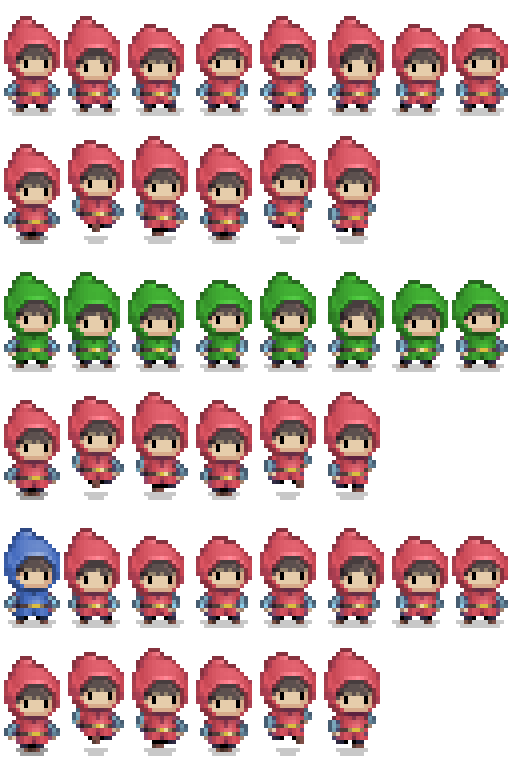
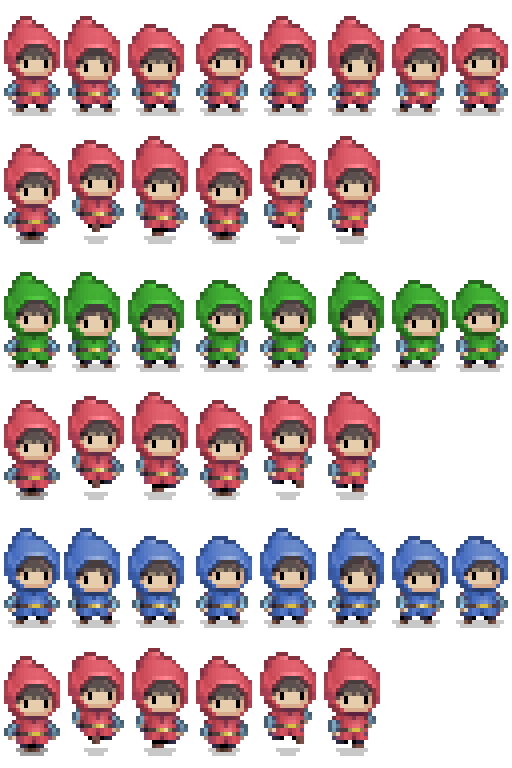
Add wizard and thief idle animation

Changed region(s): [[0.125, 0.6875, 1.0, 0.8125]]

diff --git a/src/index.tsx b/src/index.tsx
@@ -1461,13 +1461,14 @@ const App = () => {
     setState(newState)
     if (newState.teleportBeam.visible) {
       setTimeout(() => {
-        setState({
+        const stateWithTeleportBeamHidden = {
           ...newState,
           teleportBeam: {
             ...newState.teleportBeam, 
             visible: false,
           },
-        })
+        }
+        setState({ ...stateWithTeleportBeamHidden })
       }, 150)
     }
   }
@@ -1931,6 +1932,10 @@ const App = () => {
           if (isActive) {
             if (hero.type === heroTypes.warrior) {
               animation = "warrior__idle"
+            } else if (hero.type === heroTypes.thief) {
+              animation = "thief__idle"
+            } else if (hero.type === heroTypes.wizard) {
+              animation = "wizard__idle"
             }
           }
 

diff --git a/src/index.css b/src/index.css
@@ -27,3 +27,12 @@ body {
 .thief__idle {
     animation: thief__idle-animation 1.2s steps(8) infinite;
 }
+
+@keyframes wizard__idle-animation {
+    0% { background-position: 0px -440px; }
+    100% { background-position: -440px -440px; }
+}
+
+.wizard__idle {
+    animation: wizard__idle-animation 1.2s steps(8) infinite;
+}
